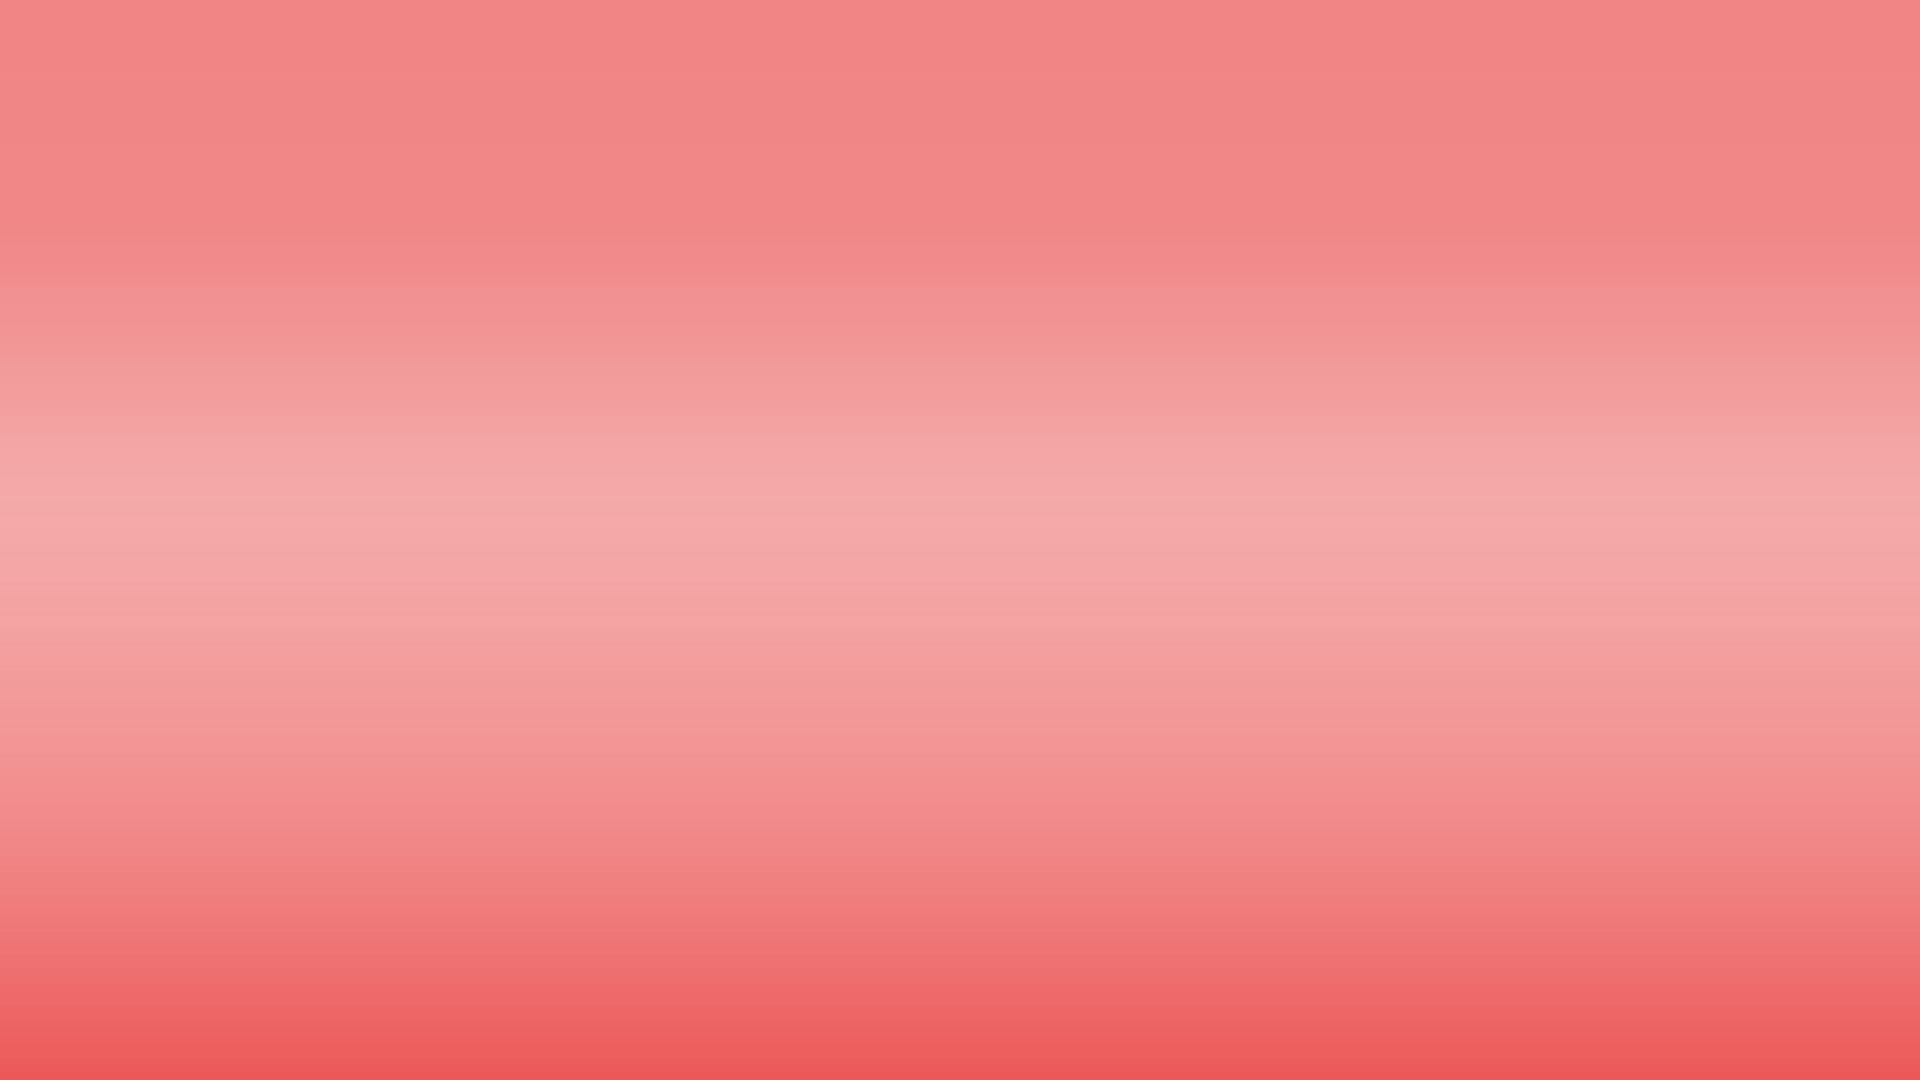
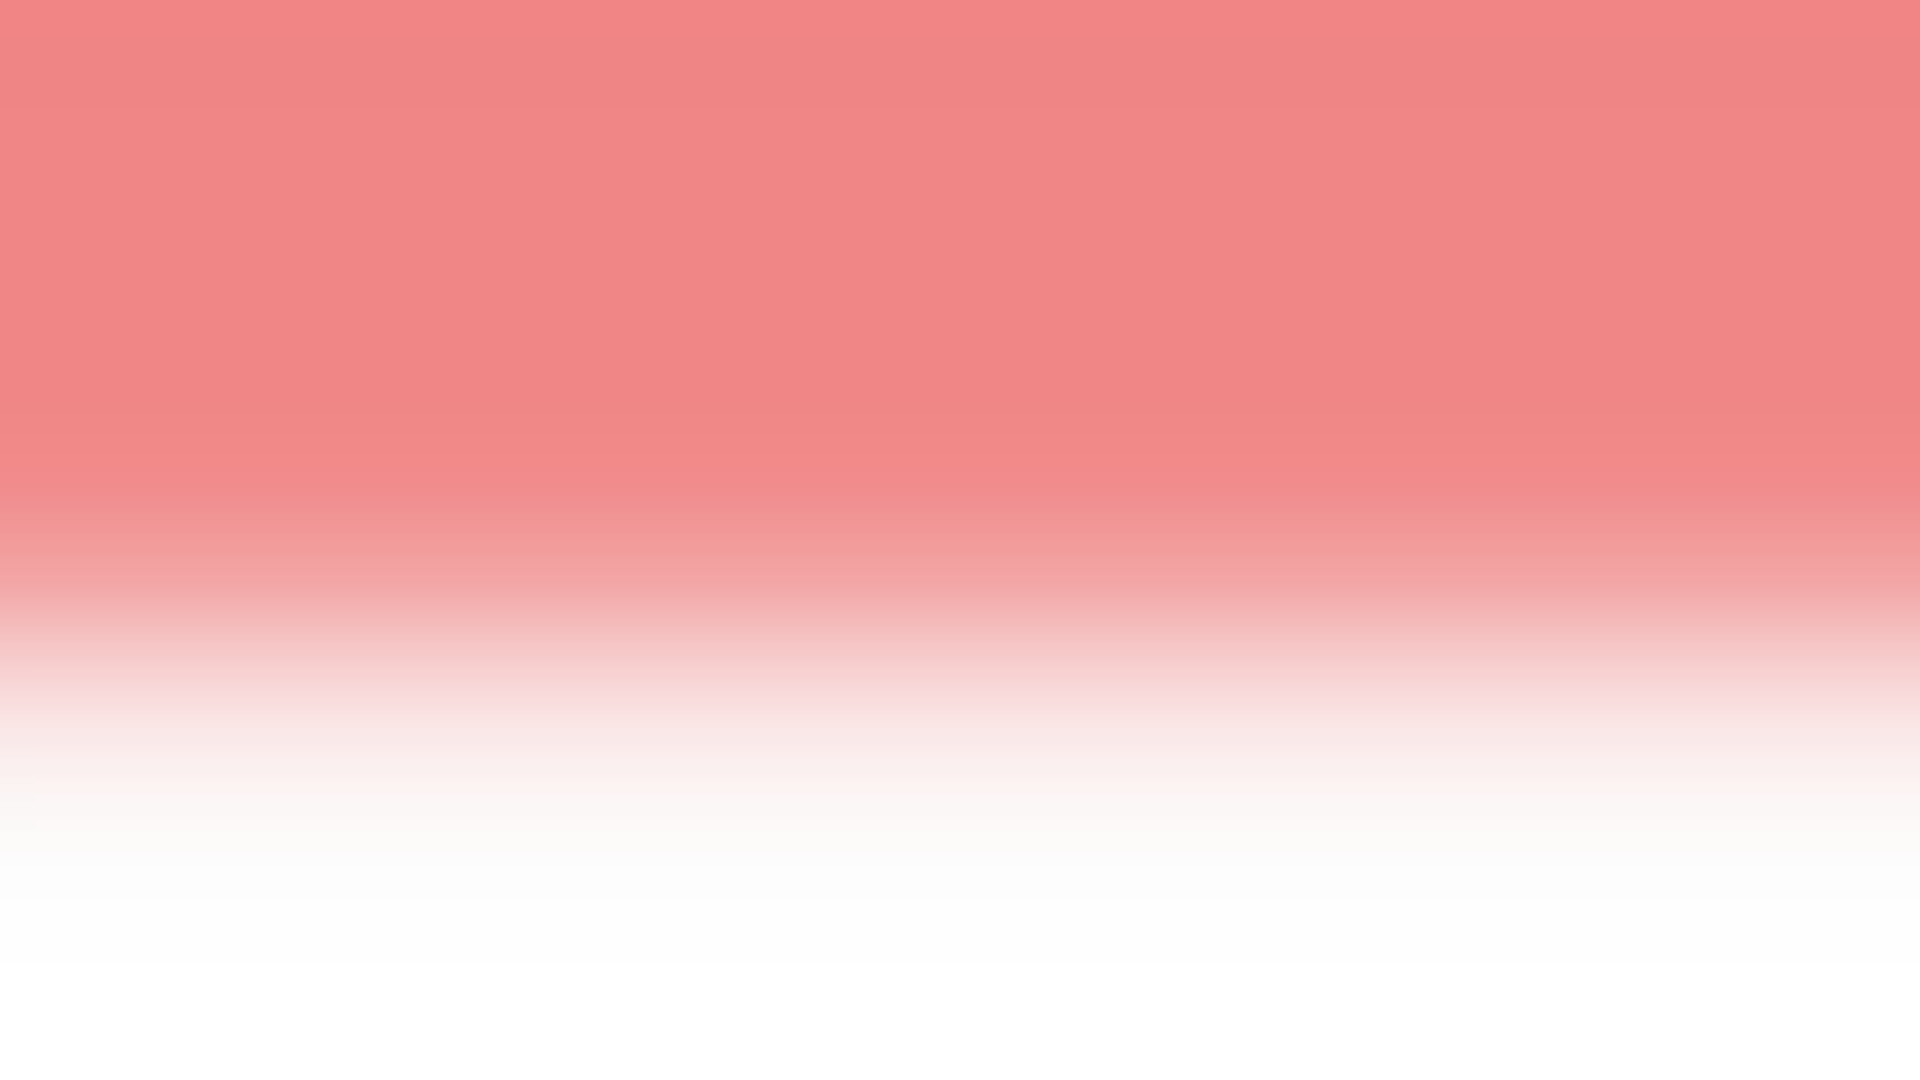
1st page update

diff --git a/style/margot.css b/style/margot.css
@@ -34,14 +34,11 @@ body {
 }
 /* Partie I*/
 .partI {
-    background-color: lightgrey;
-    display: flex;
-    flex-direction: column;
+    background-color: white;
 }
 /* Partie 0*/
 .partX {
-    background-image: url(../image/backgroundmain.jpg);
-    background-size: cover;
+    background: linear-gradient(to bottom, lightcoral,lightcoral, #F5A7A7, white);
 }
 .navbar {
   justify-content: space-between;
@@ -69,6 +66,10 @@ body {
 }
 .maintitle span :first-child {
 border-right: 2px solid white;
+}
+.lowpart img {
+  width: 10vh;
+  height:auto;
 }
 /* 1ere division*/
 .partI_id {

diff --git a/margot.html b/margot.html
@@ -24,6 +24,9 @@
               <h5>Développement web et Webdesign</h5>
             </span>
           </div>
+          <div class="lowpart center">
+            <a href="#"><img src="image/scroll_arrow.png" alt="scroll"/></a>
+          </div>
 
         </section>
         <!-- Premiere partie-->
